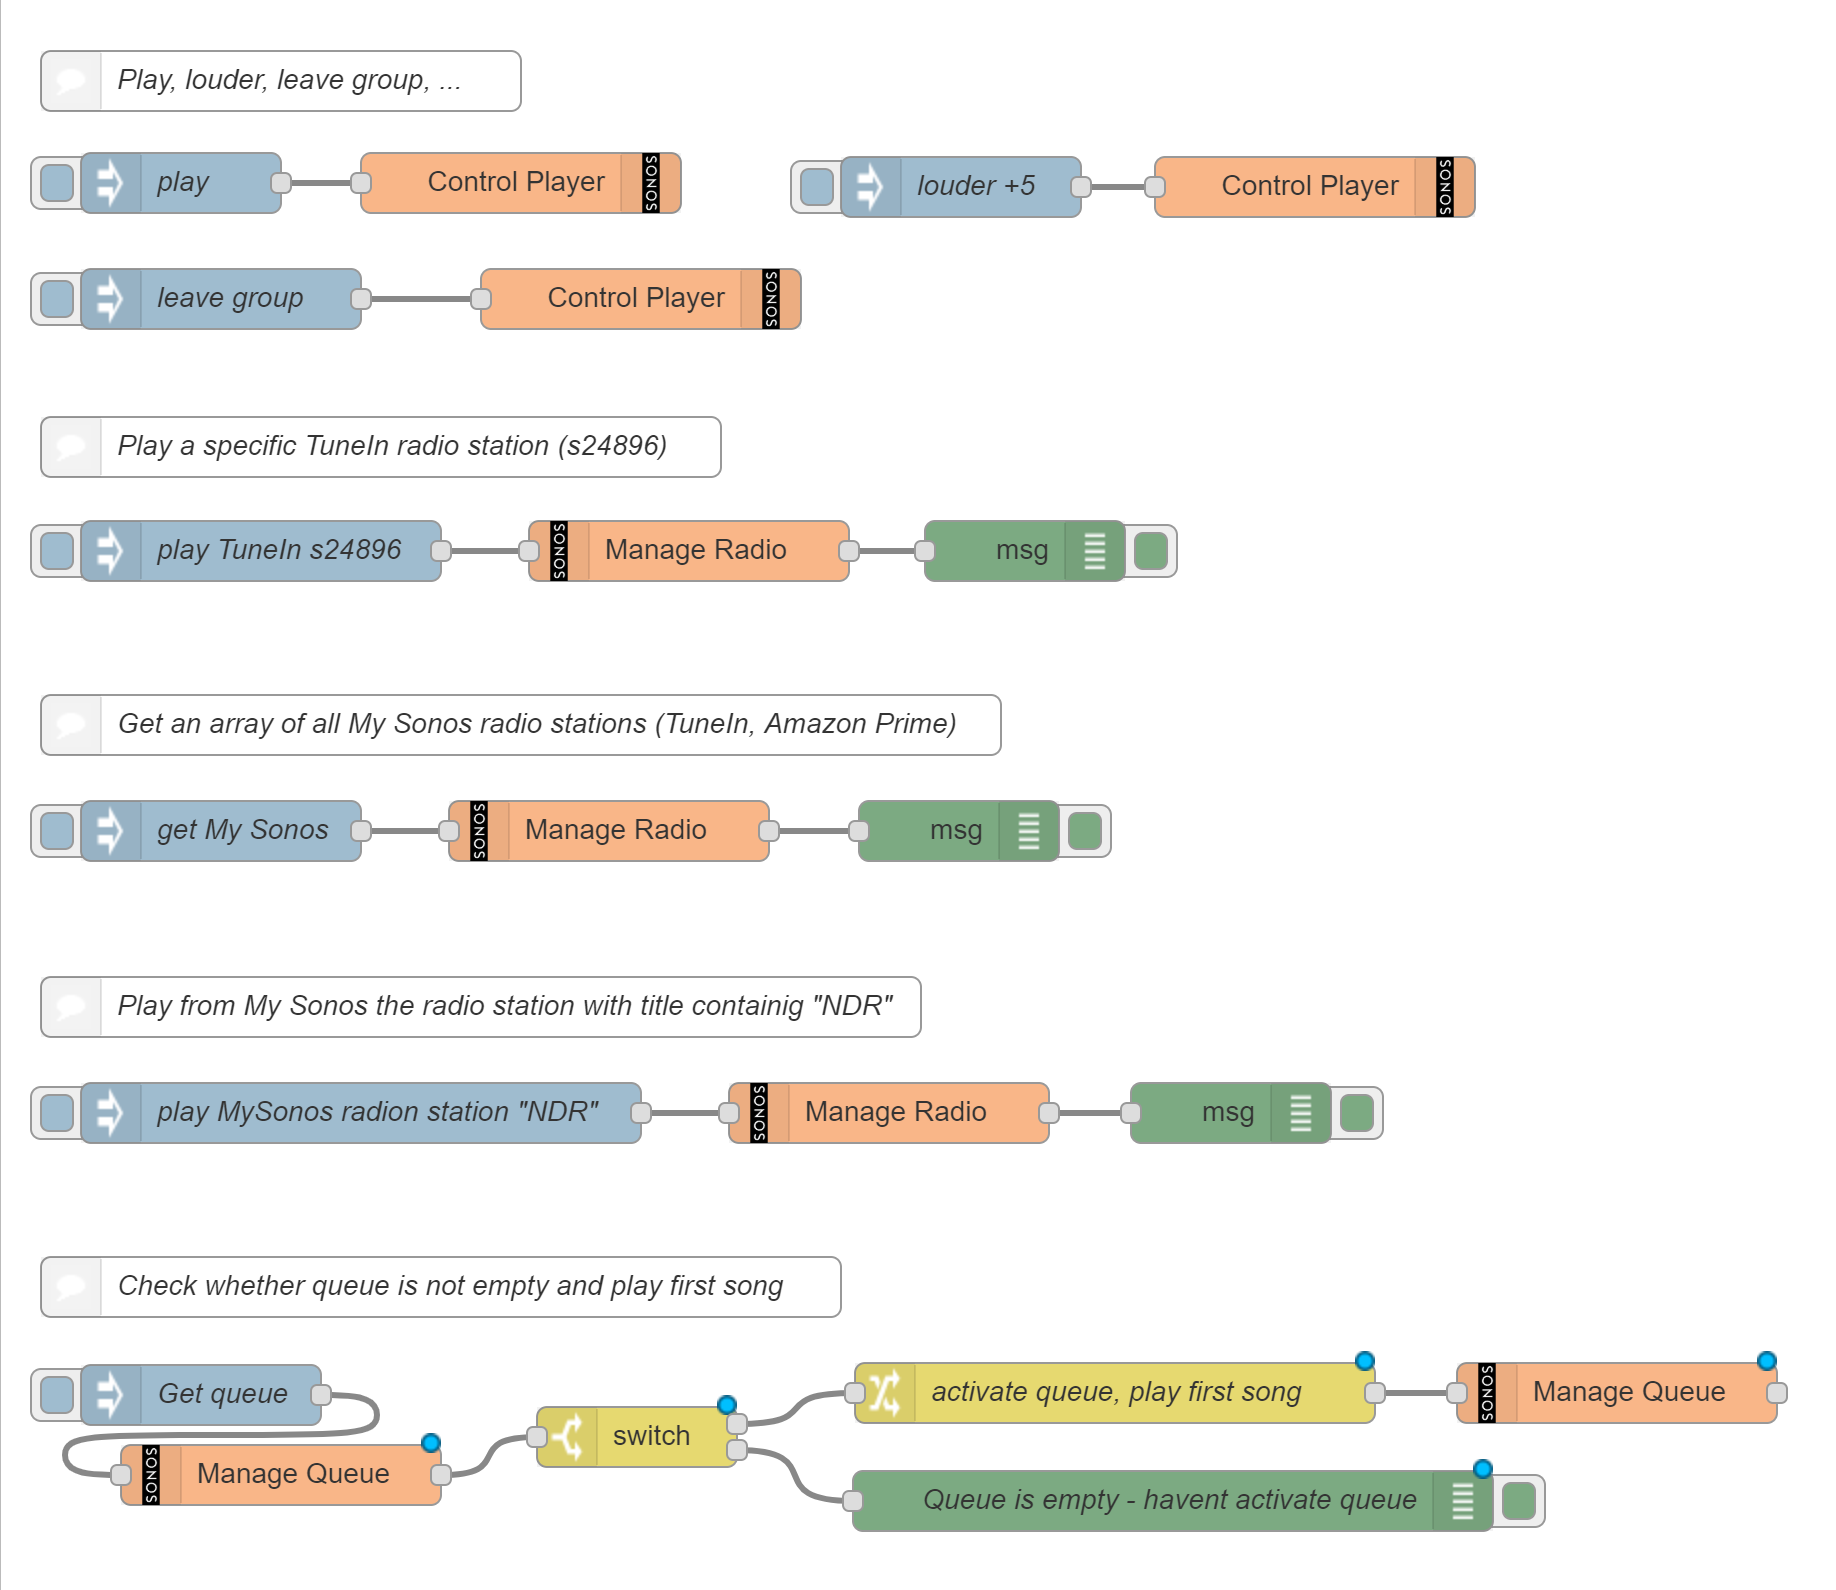
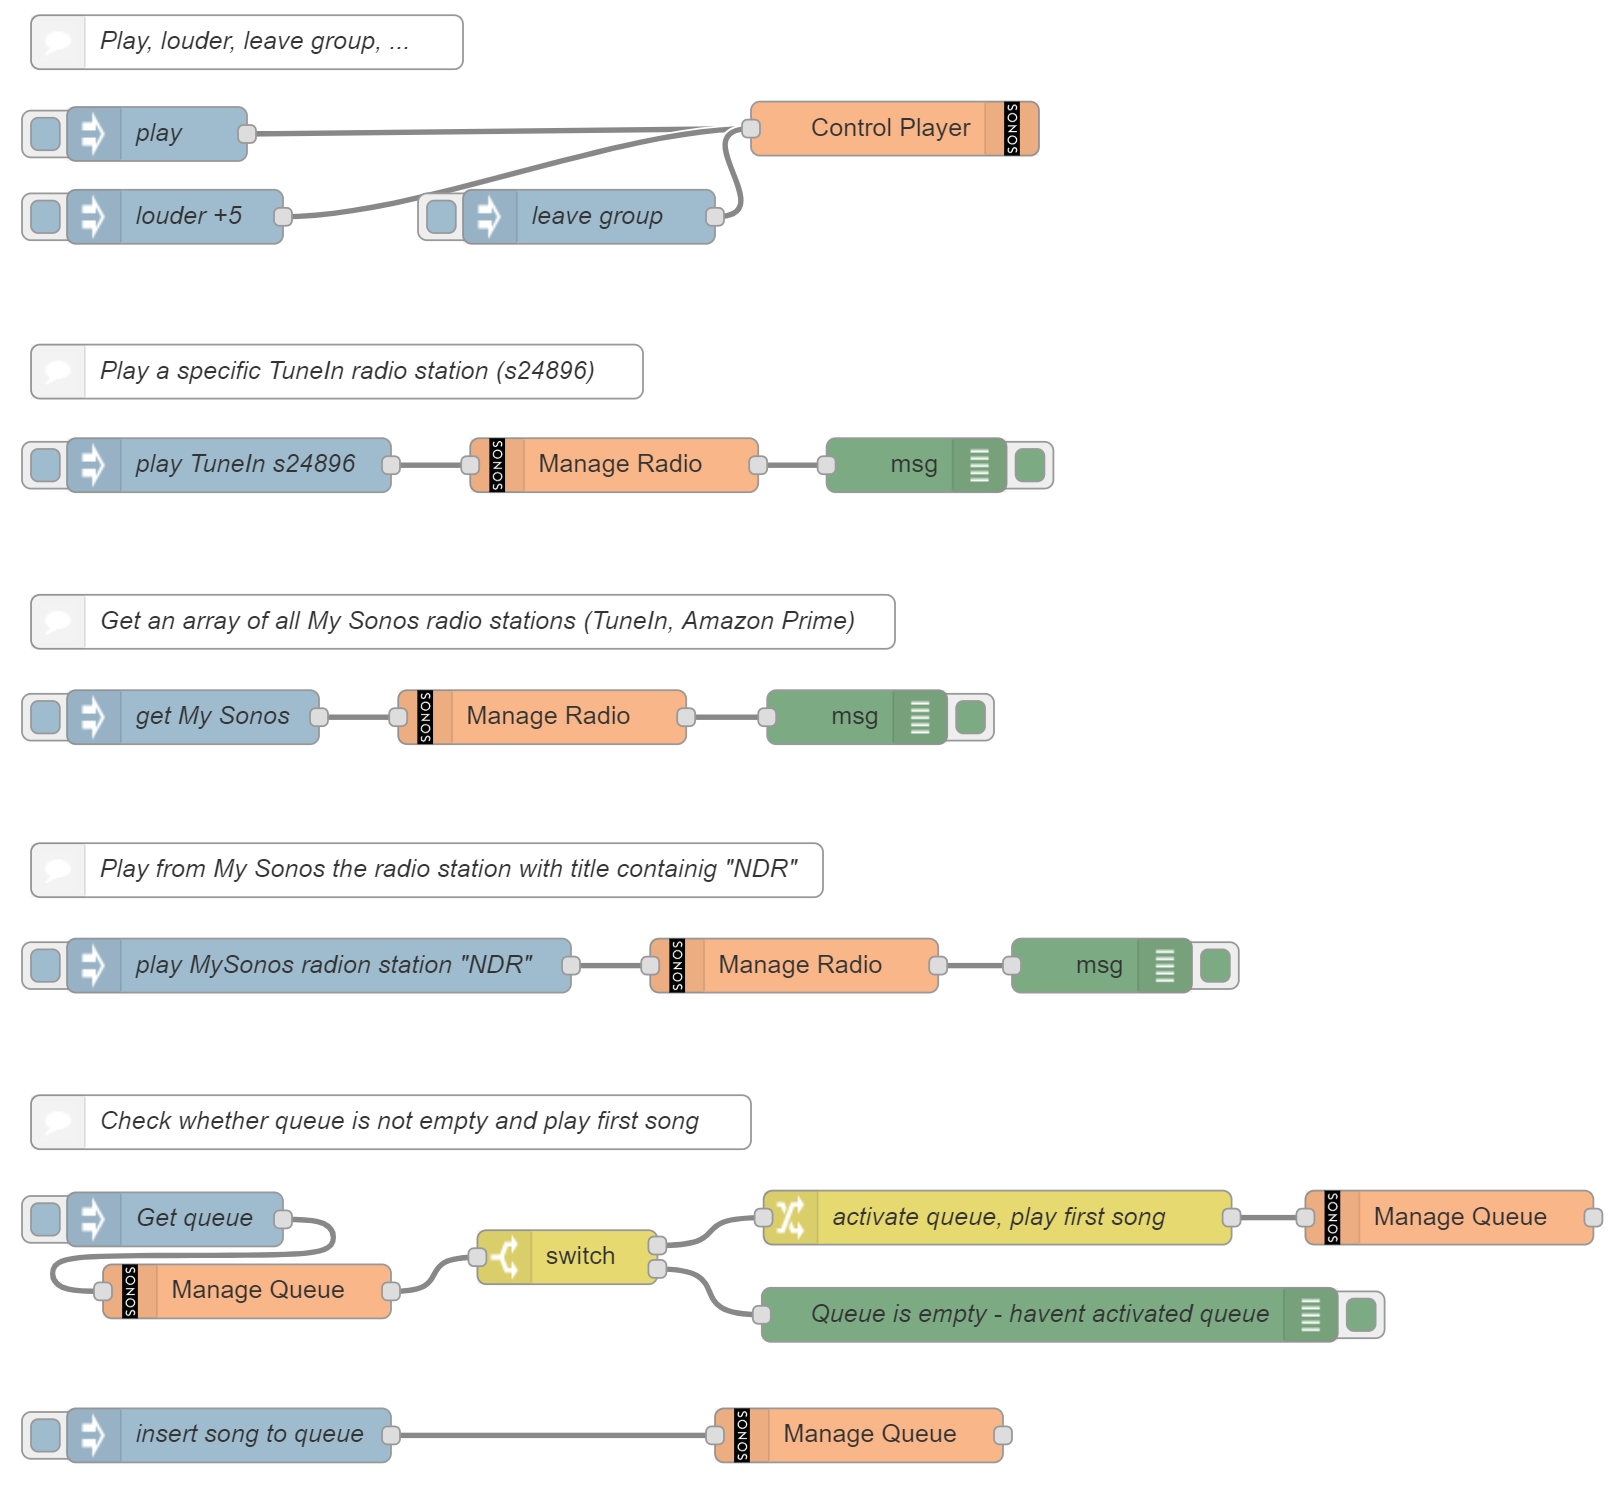
Examples update

diff --git a/README.md b/README.md
@@ -75,6 +75,6 @@ SONOS players may be **grouped** together (forming a **Zone**) to play the same 
 
 '''
 
-[{"id":"175a72be.13c86d","type":"debug","z":"b7021e0a.656f8","name":"","active":true,"tosidebar":true,"console":false,"tostatus":false,"complete":"true","targetType":"full","x":512,"y":278,"wires":[]},{"id":"1c90ac1.a34a654","type":"sonos-manage-radio","z":"b7021e0a.656f8","confignode":"84e94467.f9dd28","name":"","x":344,"y":278,"wires":[["175a72be.13c86d"]]},{"id":"cdab07b6.a33df8","type":"inject","z":"b7021e0a.656f8","name":"play TuneIn s24896","topic":"s24896","payload":"play_TuneIn","payloadType":"str","repeat":"","crontab":"","once":false,"onceDelay":0.1,"x":130,"y":278,"wires":[["1c90ac1.a34a654"]]},{"id":"32fab9f.9852246","type":"comment","z":"b7021e0a.656f8","name":"Play a specific TuneIn radio station (s24896)","info":"","x":190,"y":226,"wires":[]},{"id":"befb10e1.40bc","type":"comment","z":"b7021e0a.656f8","name":"Get an array of all My Sonos radio stations (TuneIn, Amazon Prime)","info":"","x":260,"y":365,"wires":[]},{"id":"ab5f322d.6c4ff","type":"debug","z":"b7021e0a.656f8","name":"","active":true,"tosidebar":true,"console":false,"tostatus":false,"complete":"true","targetType":"full","x":479,"y":418,"wires":[]},{"id":"869bcf26.f9325","type":"sonos-manage-radio","z":"b7021e0a.656f8","confignode":"84e94467.f9dd28","name":"","x":304,"y":418,"wires":[["ab5f322d.6c4ff"]]},{"id":"6e659087.d491","type":"inject","z":"b7021e0a.656f8","name":"get My Sonos","topic":"","payload":"get_mysonos","payloadType":"str","repeat":"","crontab":"","once":false,"onceDelay":0.1,"x":110,"y":418,"wires":[["869bcf26.f9325"]]},{"id":"9a33f4e6.018a48","type":"inject","z":"b7021e0a.656f8","name":"play MySonos radion station  \"NDR\"","topic":"NDR","payload":"play_MySonos","payloadType":"str","repeat":"","crontab":"","once":false,"onceDelay":0.1,"x":180,"y":559,"wires":[["511b5f4b.4966e"]]},{"id":"511b5f4b.4966e","type":"sonos-manage-radio","z":"b7021e0a.656f8","confignode":"84e94467.f9dd28","name":"","x":444,"y":559,"wires":[["cefbb00b.d8009"]]},{"id":"cefbb00b.d8009","type":"debug","z":"b7021e0a.656f8","name":"","active":true,"tosidebar":true,"console":false,"tostatus":false,"complete":"true","targetType":"full","x":615,"y":559,"wires":[]},{"id":"f656b563.7f5848","type":"comment","z":"b7021e0a.656f8","name":"Play from My Sonos the radio station with title containig  \"NDR\"","info":"","x":240,"y":506,"wires":[]},{"id":"67353c6e.7f5874","type":"sonos-manage-queue","z":"b7021e0a.656f8","confignode":"84e94467.f9dd28","songuri":"","position":"","positioninqueue":"","name":"","x":808,"y":699,"wires":[[]]},{"id":"b3f5ba0d.fae688","type":"inject","z":"b7021e0a.656f8","name":"Get queue","topic":"","payload":"get_queue","payloadType":"str","repeat":"","crontab":"","once":false,"onceDelay":0.1,"x":100,"y":700,"wires":[["92aa39e6.fd5968"]]},{"id":"92aa39e6.fd5968","type":"sonos-manage-queue","z":"b7021e0a.656f8","confignode":"84e94467.f9dd28","songuri":"","position":"","positioninqueue":"","name":"","x":140,"y":740,"wires":[["6a4007fd.da0bc8"]]},{"id":"1ede71d3.9c3bee","type":"change","z":"b7021e0a.656f8","name":"activate queue, play first song","rules":[{"t":"set","p":"payload","pt":"msg","to":"activate_queue","tot":"str"}],"action":"","property":"","from":"","to":"","reg":false,"x":557,"y":699,"wires":[["67353c6e.7f5874"]]},{"id":"6a4007fd.da0bc8","type":"switch","z":"b7021e0a.656f8","name":"","property":"queue_length","propertyType":"msg","rules":[{"t":"gt","v":"0","vt":"str"},{"t":"else"}],"checkall":"true","repair":false,"outputs":2,"x":318,"y":721,"wires":[["1ede71d3.9c3bee"],["950c79c0.7f7a28"]]},{"id":"950c79c0.7f7a28","type":"debug","z":"b7021e0a.656f8","name":"Queue is empty - havent activate queue","active":true,"tosidebar":true,"console":false,"tostatus":false,"complete":"true","targetType":"full","x":586,"y":753,"wires":[]},{"id":"7d48ce71.5f283","type":"comment","z":"b7021e0a.656f8","name":"Check whether queue is not empty and play first song","info":"","x":220,"y":646,"wires":[]},{"id":"f36a9784.4895d8","type":"inject","z":"b7021e0a.656f8","name":"play","topic":"","payload":"play","payloadType":"str","repeat":"","crontab":"","once":false,"onceDelay":0.1,"x":90,"y":94,"wires":[["f936ab1b.cd7408"]]},{"id":"f936ab1b.cd7408","type":"sonos-control-player","z":"b7021e0a.656f8","confignode":"84e94467.f9dd28","name":"","x":260,"y":94,"wires":[]},{"id":"7653fdfa.d445d4","type":"comment","z":"b7021e0a.656f8","name":"Play, louder, leave group, ...","info":"","x":140,"y":43,"wires":[]},{"id":"8218d7c6.5f1568","type":"inject","z":"b7021e0a.656f8","name":"louder +5","topic":"","payload":"+5","payloadType":"str","repeat":"","crontab":"","once":false,"onceDelay":0.1,"x":480,"y":96,"wires":[["3921336c.83345c"]]},{"id":"3921336c.83345c","type":"sonos-control-player","z":"b7021e0a.656f8","confignode":"84e94467.f9dd28","name":"","x":657,"y":96,"wires":[]},{"id":"5f5d5f3f.89165","type":"inject","z":"b7021e0a.656f8","name":"leave group","topic":"","payload":"leave_group","payloadType":"str","repeat":"","crontab":"","once":false,"onceDelay":0.1,"x":110,"y":152,"wires":[["b731d0b9.64b3c"]]},{"id":"b731d0b9.64b3c","type":"sonos-control-player","z":"b7021e0a.656f8","confignode":"8afb119a.8c98a","name":"","x":320,"y":152,"wires":[]},{"id":"84e94467.f9dd28","type":"sonos-config","z":"","name":"sonos","serialnum":"5C-AA-FD-00-22-36:1","ipaddress":"192.168.178.41"},{"id":"8afb119a.8c98a","type":"sonos-config","z":"","name":"bad","serialnum":"00-0E-58-FE-3A-EA:5","ipaddress":"192.168.178.45"}]
+[{"id":"175a72be.13c86d","type":"debug","z":"b7021e0a.656f8","name":"","active":true,"tosidebar":true,"console":false,"tostatus":false,"complete":"true","targetType":"full","x":512,"y":259,"wires":[]},{"id":"1c90ac1.a34a654","type":"sonos-manage-radio","z":"b7021e0a.656f8","confignode":"84e94467.f9dd28","name":"","x":344,"y":259,"wires":[["175a72be.13c86d"]]},{"id":"cdab07b6.a33df8","type":"inject","z":"b7021e0a.656f8","name":"play TuneIn s24896","topic":"s24896","payload":"play_TuneIn","payloadType":"str","repeat":"","crontab":"","once":false,"onceDelay":0.1,"x":130,"y":259,"wires":[["1c90ac1.a34a654"]]},{"id":"32fab9f.9852246","type":"comment","z":"b7021e0a.656f8","name":"Play a specific TuneIn radio station (s24896)","info":"","x":190,"y":207,"wires":[]},{"id":"befb10e1.40bc","type":"comment","z":"b7021e0a.656f8","name":"Get an array of all My Sonos radio stations (TuneIn, Amazon Prime)","info":"","x":260,"y":346,"wires":[]},{"id":"ab5f322d.6c4ff","type":"debug","z":"b7021e0a.656f8","name":"","active":true,"tosidebar":true,"console":false,"tostatus":false,"complete":"true","targetType":"full","x":479,"y":399,"wires":[]},{"id":"869bcf26.f9325","type":"sonos-manage-radio","z":"b7021e0a.656f8","confignode":"84e94467.f9dd28","name":"","x":304,"y":399,"wires":[["ab5f322d.6c4ff"]]},{"id":"6e659087.d491","type":"inject","z":"b7021e0a.656f8","name":"get My Sonos","topic":"","payload":"get_mysonos","payloadType":"str","repeat":"","crontab":"","once":false,"onceDelay":0.1,"x":110,"y":399,"wires":[["869bcf26.f9325"]]},{"id":"9a33f4e6.018a48","type":"inject","z":"b7021e0a.656f8","name":"play MySonos radion station  \"NDR\"","topic":"NDR","payload":"play_MySonos","payloadType":"str","repeat":"","crontab":"","once":false,"onceDelay":0.1,"x":180,"y":537,"wires":[["511b5f4b.4966e"]]},{"id":"511b5f4b.4966e","type":"sonos-manage-radio","z":"b7021e0a.656f8","confignode":"84e94467.f9dd28","name":"","x":444,"y":537,"wires":[["cefbb00b.d8009"]]},{"id":"cefbb00b.d8009","type":"debug","z":"b7021e0a.656f8","name":"","active":true,"tosidebar":true,"console":false,"tostatus":false,"complete":"true","targetType":"full","x":615,"y":537,"wires":[]},{"id":"f656b563.7f5848","type":"comment","z":"b7021e0a.656f8","name":"Play from My Sonos the radio station with title containig  \"NDR\"","info":"","x":240,"y":484,"wires":[]},{"id":"67353c6e.7f5874","type":"sonos-manage-queue","z":"b7021e0a.656f8","confignode":"84e94467.f9dd28","songuri":"","position":"","positioninqueue":"","name":"","x":808,"y":677,"wires":[[]]},{"id":"b3f5ba0d.fae688","type":"inject","z":"b7021e0a.656f8","name":"Get queue","topic":"","payload":"get_queue","payloadType":"str","repeat":"","crontab":"","once":false,"onceDelay":0.1,"x":100,"y":678,"wires":[["92aa39e6.fd5968"]]},{"id":"92aa39e6.fd5968","type":"sonos-manage-queue","z":"b7021e0a.656f8","confignode":"84e94467.f9dd28","songuri":"","position":"","positioninqueue":"","name":"","x":140,"y":718,"wires":[["6a4007fd.da0bc8"]]},{"id":"1ede71d3.9c3bee","type":"change","z":"b7021e0a.656f8","name":"activate queue, play first song","rules":[{"t":"set","p":"payload","pt":"msg","to":"activate_queue","tot":"str"}],"action":"","property":"","from":"","to":"","reg":false,"x":557,"y":677,"wires":[["67353c6e.7f5874"]]},{"id":"6a4007fd.da0bc8","type":"switch","z":"b7021e0a.656f8","name":"","property":"queue_length","propertyType":"msg","rules":[{"t":"gt","v":"0","vt":"str"},{"t":"else"}],"checkall":"true","repair":false,"outputs":2,"x":318,"y":699,"wires":[["1ede71d3.9c3bee"],["950c79c0.7f7a28"]]},{"id":"950c79c0.7f7a28","type":"debug","z":"b7021e0a.656f8","name":"Queue is empty - havent activated queue","active":true,"tosidebar":true,"console":false,"tostatus":false,"complete":"true","targetType":"full","x":586,"y":731,"wires":[]},{"id":"7d48ce71.5f283","type":"comment","z":"b7021e0a.656f8","name":"Check whether queue is not empty and play first song","info":"","x":220,"y":624,"wires":[]},{"id":"f36a9784.4895d8","type":"inject","z":"b7021e0a.656f8","name":"play","topic":"","payload":"play","payloadType":"str","repeat":"","crontab":"","once":false,"onceDelay":0.1,"x":90,"y":75,"wires":[["3921336c.83345c"]]},{"id":"7653fdfa.d445d4","type":"comment","z":"b7021e0a.656f8","name":"Play, louder, leave group, ...","info":"","x":140,"y":24,"wires":[]},{"id":"8218d7c6.5f1568","type":"inject","z":"b7021e0a.656f8","name":"louder +5","topic":"","payload":"+5","payloadType":"str","repeat":"","crontab":"","once":false,"onceDelay":0.1,"x":100,"y":121,"wires":[["3921336c.83345c"]]},{"id":"3921336c.83345c","type":"sonos-control-player","z":"b7021e0a.656f8","confignode":"84e94467.f9dd28","name":"","x":500,"y":72,"wires":[]},{"id":"5f5d5f3f.89165","type":"inject","z":"b7021e0a.656f8","name":"leave group","topic":"","payload":"leave_group","payloadType":"str","repeat":"","crontab":"","once":false,"onceDelay":0.1,"x":330,"y":121,"wires":[["3921336c.83345c"]]},{"id":"90cfc520.5219e8","type":"inject","z":"b7021e0a.656f8","name":"insert song to queue","topic":"x-sonosapi-hls-static:catalog%2ftracks%2fB07Q5JHQ7P%2f?sid=201&flags=0&sn=14\"","payload":"insert_uri","payloadType":"str","repeat":"","crontab":"","once":false,"onceDelay":0.1,"x":130,"y":798,"wires":[["ed3f8e27.ccdf2"]]},{"id":"ed3f8e27.ccdf2","type":"sonos-manage-queue","z":"b7021e0a.656f8","confignode":"84e94467.f9dd28","songuri":"","position":"","positioninqueue":"","name":"","x":480,"y":798,"wires":[[]]},{"id":"84e94467.f9dd28","type":"sonos-config","z":"","name":"sonos","serialnum":"5C-AA-FD-00-22-36:1","ipaddress":"192.168.178.41"}]
 
 '''
